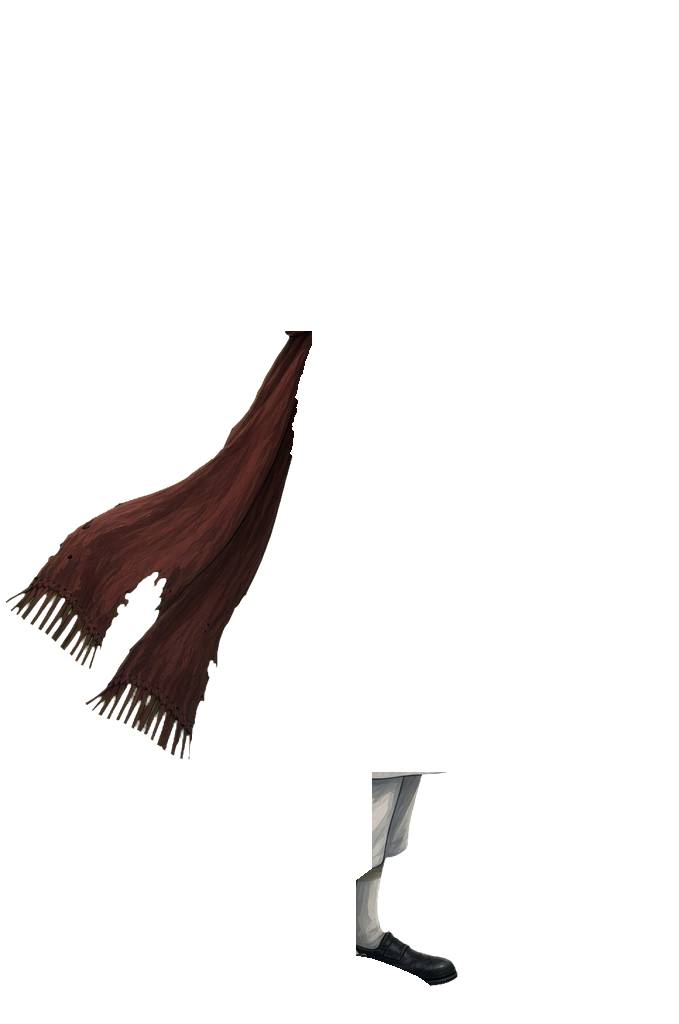
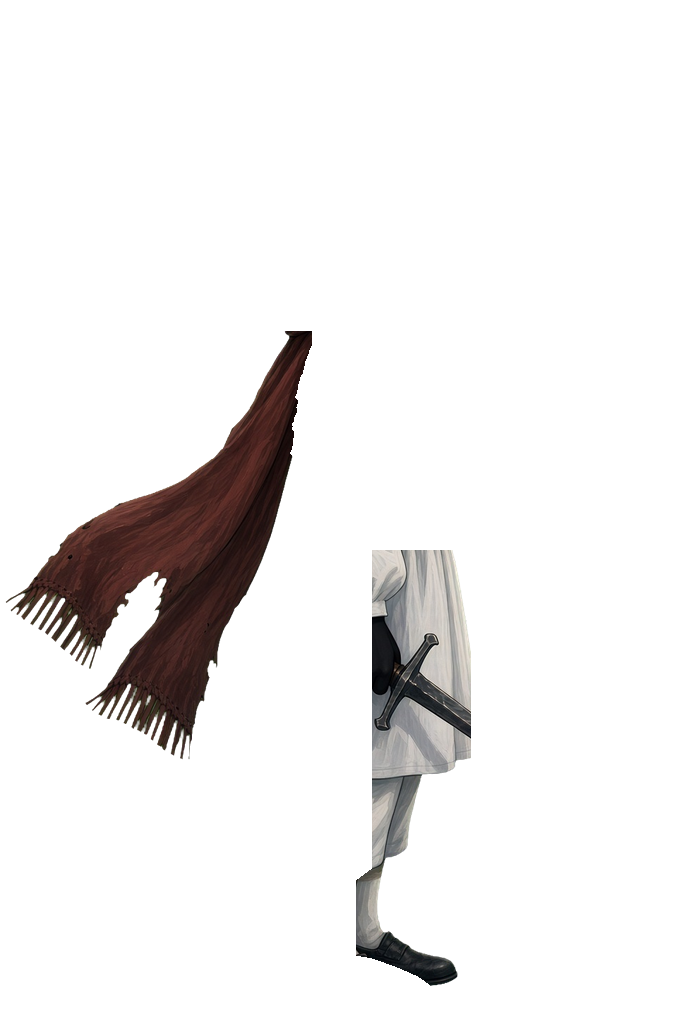
fix: allineate le costanti di char_rig.gd e shader con la nuova mappa dei pesi

Changed region(s): [[0.5258, 0.5312, 0.7113, 0.7812]]

diff --git a/tools/art/rig_ferruccio_mesh.py b/tools/art/rig_ferruccio_mesh.py
@@ -37,7 +37,7 @@ OUT = ROOT / "src/assets/art/characters/ferruccio_rig"
 TILE_DIV = 4  # la mappa dei pesi è campionata solo ai vertici: 1/4 di risoluzione basta
 
 # --- Gambe (tagli in pixel dell'immagine 679x1024 prodotta da import_art.py) --------------------
-HEM_Y = 772  # sotto l'orlo del camicione iniziano le gambe
+HEM_Y = 550  # sotto l'orlo del camicione iniziano le gambe
 # Confine tra le due gambe: piega dei calzoni, poi calza vicina, poi bordo della scarpa vicina.
 _SPLIT = [(372, HEM_Y), (372, 868), (356, 880), (356, 955), (372, 958), (395, 966), (418, 976), (440, 992), (440, 1024)]
 LEG_FRONT = [(280, HEM_Y)] + _SPLIT + [(280, 1024)]
@@ -80,7 +80,7 @@ TAIL_MIN_Y = 330
 # --- Manica ---------------------------------------------------------------------------------------
 SLEEVE = [(298, 338), (392, 338), (408, 450), (414, 560), (402, 600), (398, 621), (332, 621),
           (300, 592), (288, 500), (290, 400)]
-SLEEVE_RAMP = (390.0, 575.0)  # dalla spalla (fermo) al polsino (segue del tutto il braccio)
+SLEEVE_RAMP = (350.0, 420.0)  # dalla spalla (fermo) al polsino (segue del tutto il braccio)
 
 # --- Orlo -----------------------------------------------------------------------------------------
 HEM_RAMP = (560.0, 765.0)
